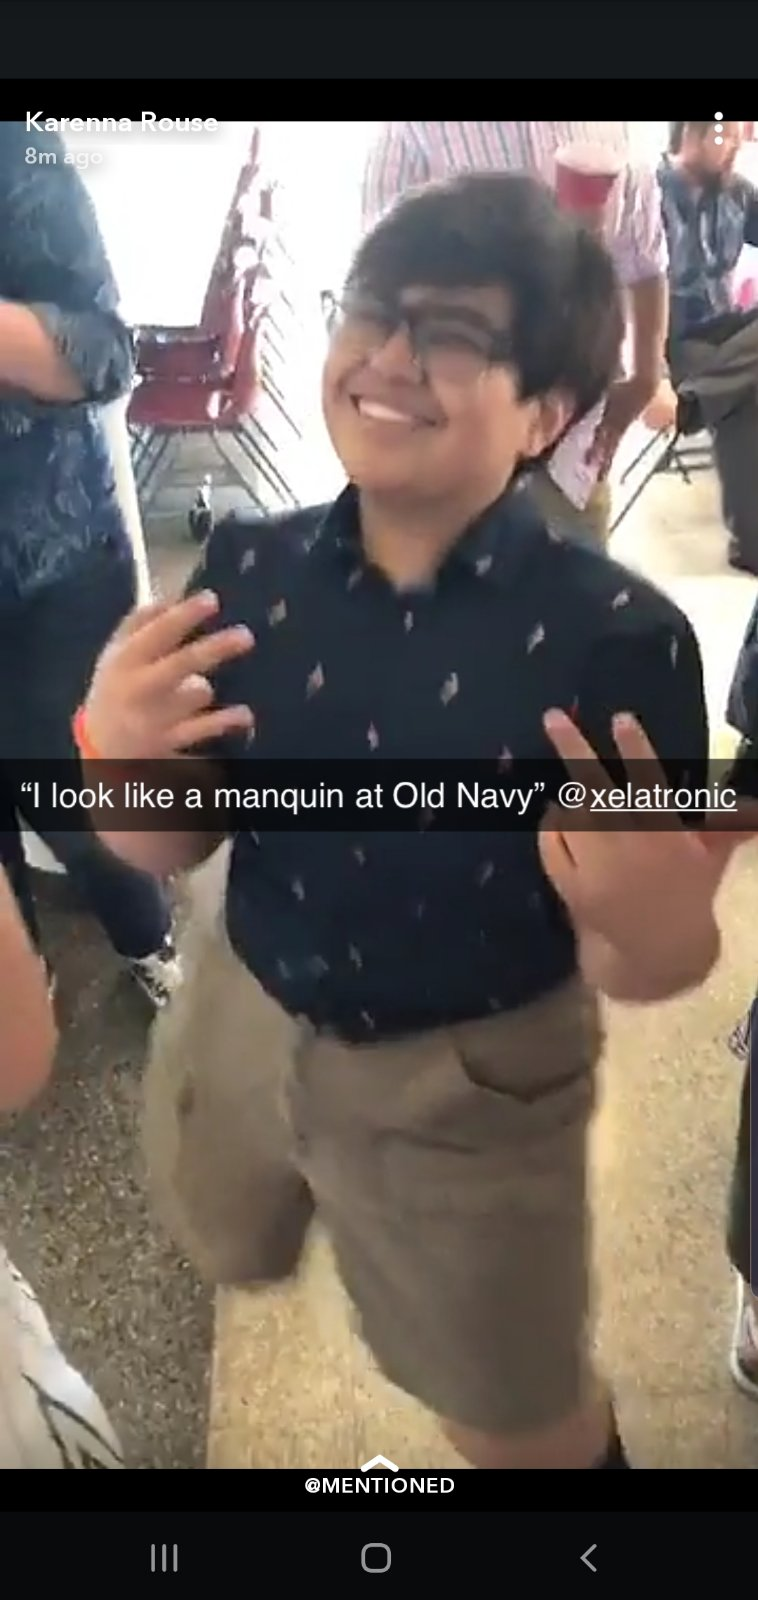
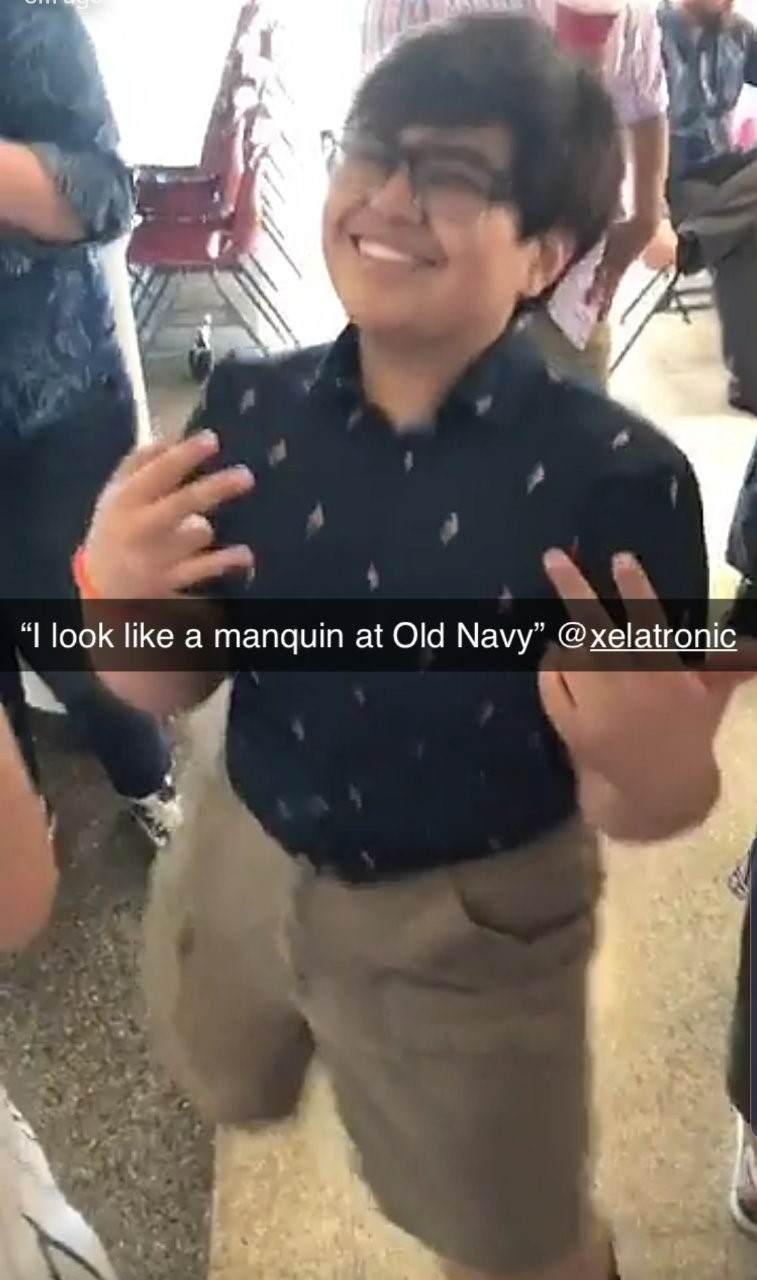
Cropped pics, reformatted stylesheet

diff --git a/docs/styles.css b/docs/styles.css
@@ -1,52 +1,52 @@
 * {
-  margin: 0;
-  padding: 0;
-  box-sizing: border-box;
-  color: #351639;
-  background-color: transparent;
+	margin: 0;
+	padding: 0;
+	box-sizing: border-box;
+	color: #351639;
+	background-color: transparent;
 }
 
 body {
-  background-color: #f0e8de;
+	background-color: #f0e8de;
 }
 
 .page{
-  display: flex;
-  margin: auto;
-  flex-wrap: wrap;
-  flex-direction: column;
+	display: flex;
+	margin: auto;
+	flex-wrap: wrap;
+	flex-direction: column;
 }
 
 .header-container {
-  display: flex;
-  justify-content: center;
-  align-items: center;
-  flex-direction: column;
-  margin-bottom: 1.5em;
-  flex-wrap: wrap;
+	display: flex;
+	justify-content: center;
+	align-items: center;
+	flex-direction: column;
+	margin-bottom: 1.5em;
+	flex-wrap: wrap;
 }
 
 .home-menu-container {
-  color: #fff;
-  padding: 20px 0;
-  display: flex;
-  justify-content: center;
+	color: #fff;
+	padding: 20px 0;
+	display: flex;
+	justify-content: center;
 }
 
 .menu-container {
-  color: #fff;
-  padding: 5px 200;
-  display: flex;
-  justify-content: flex-start;
-  align-items: center;
-  background-color: #a4afe7;
+	color: #fff;
+	padding: 5px 200;
+	display: flex;
+	justify-content: flex-start;
+	align-items: center;
+	background-color: #a4afe7;
 }
 
 .menu {
-  width: 900px;
-  display: flex;
-  justify-content: flex-start;
-  background-color: transparent;
+	width: 900px;
+	display: flex;
+	justify-content: flex-start;
+	background-color: transparent;
 }
 
 p{
@@ -70,22 +70,22 @@ strong {
 
 .button:link,
 .button:visited {
-  display: block;
-  text-decoration: none;
-  color: #FFF;
-  background-color: #6260ad;
-  font-weight: bold;
-  padding: 10px;
-  text-align: center;
-  border: 2px solid #5D6063;
-  border-radius: 5px;
-  width: 180px;
-  margin: 20px auto;
+	display: block;
+	text-decoration: none;
+	color: #FFF;
+	background-color: #6260ad;
+	font-weight: bold;
+	padding: 10px;
+	text-align: center;
+	border: 2px solid #5D6063;
+	border-radius: 5px;
+	width: 180px;
+	margin: 20px auto;
 }
 .button:hover,
 .button:visited:hover {
-  color: #FFF;
-  background-color: #76AEED;  /* Light blue */
+	color: #FFF;
+	background-color: #76AEED;  /* Light blue */
 }
 
 
@@ -105,21 +105,21 @@ h3{
 }
 
 .main-content-container {
-  display: flex;
-  flex-direction: column;
-  justify-content: center;
-  align-items: center;
-  font-family: "Times New Roman", Garamond, Serif;
-  background-color: #ffc389;
+	display: flex;
+	flex-direction: column;
+	justify-content: center;
+	align-items: center;
+	font-family: "Times New Roman", Garamond, Serif;
+	background-color: #ffc389;
 }
 @media only screen and (max-width: 1000px) {
-  .main-content-container{
-    flex-wrap: wrap;
+	.main-content-container{
+		flex-wrap: wrap;
   }
 }
 
 .individual-page {
-  flex-direction: row;
+	flex-direction: row;
 }
 
 .prose {
@@ -132,8 +132,8 @@ h3{
 	flex-wrap: wrap;
 }
 @media only screen and (min-width: 1000px) {
-  .main-content-container > .prose {
-	width: 1000px;
+	.main-content-container > .prose {
+		width: 1000px;
   }
 }
 
@@ -146,7 +146,7 @@ h3{
 	padding: 5px;
 	margin: 15px;
 	width: 1000px;
-	  background-color: #f0e8de;
+	background-color: #f0e8de;
 }
 
 
@@ -158,18 +158,20 @@ h3{
 	display: flex;
 	flex-direction: row;
 	background-color: #6260ad;
-	padding: 15px;
+	padding: 12px;
 }
 @media only screen and (max-width: 1000px) {
-  .picture-bundle {
-    flex-wrap: wrap;
-  }
+	.picture-bundle {
+		flex-wrap: wrap;
+	}
 }
 
 img{
-	margin: 2px;
-	margin-bottom: -4px;
-	align-self: end;
+	margin: 4px;
+	align-self: center;
+}
+a > img {
+	margin-bottom: -2px;
 }
 
 .qotd-scan{
@@ -177,12 +179,17 @@ img{
 }
 
 .right-side{
-  display: flex;
-  flex-direction: column;
+	display: flex;
+	flex-direction: column;
+}
+@media only screen and (min-width: 1000px) {
+	.right-side{
+		width: 800px;
+	}
 }
 
 .portrait-buttons{
-	  display: flex;
-  flex-direction: row;
+	display: flex;
+	flex-direction: row;
 	background-color: transparent;
 }

diff --git a/docs/portrait2022.html b/docs/portrait2022.html
@@ -22,7 +22,7 @@
 			<h1>Portraits</h1>
 		</div>
 	
-		<div class='main-content-container'>
+		<div class='main-content-container individual-page'>
 		
 			<div class='picture-bundle'>
 				<img src='images/portrait-1-12-2022.png' width='500'/>
